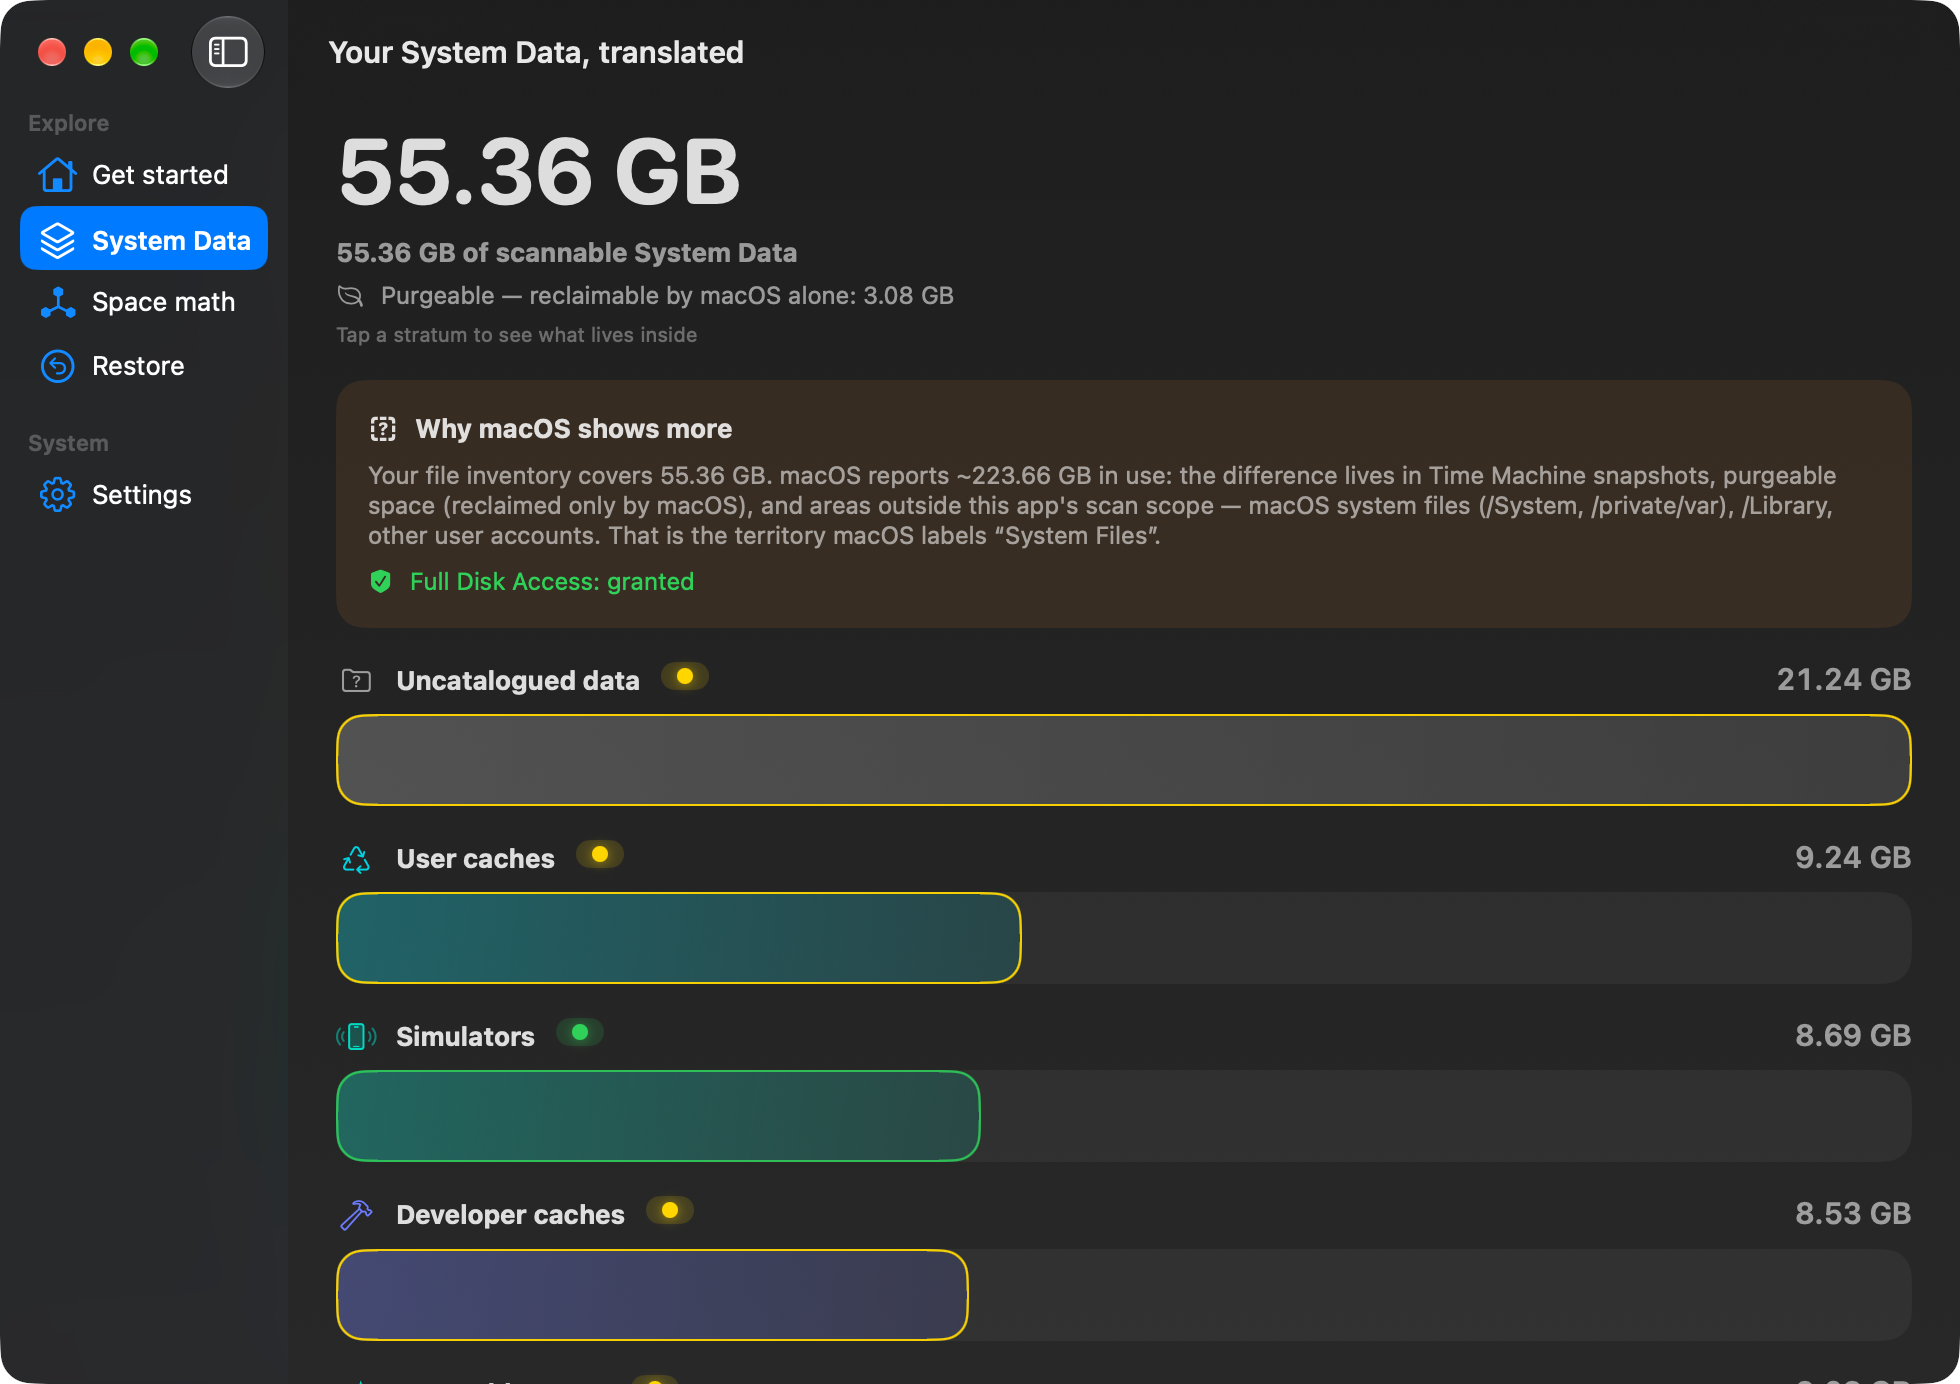
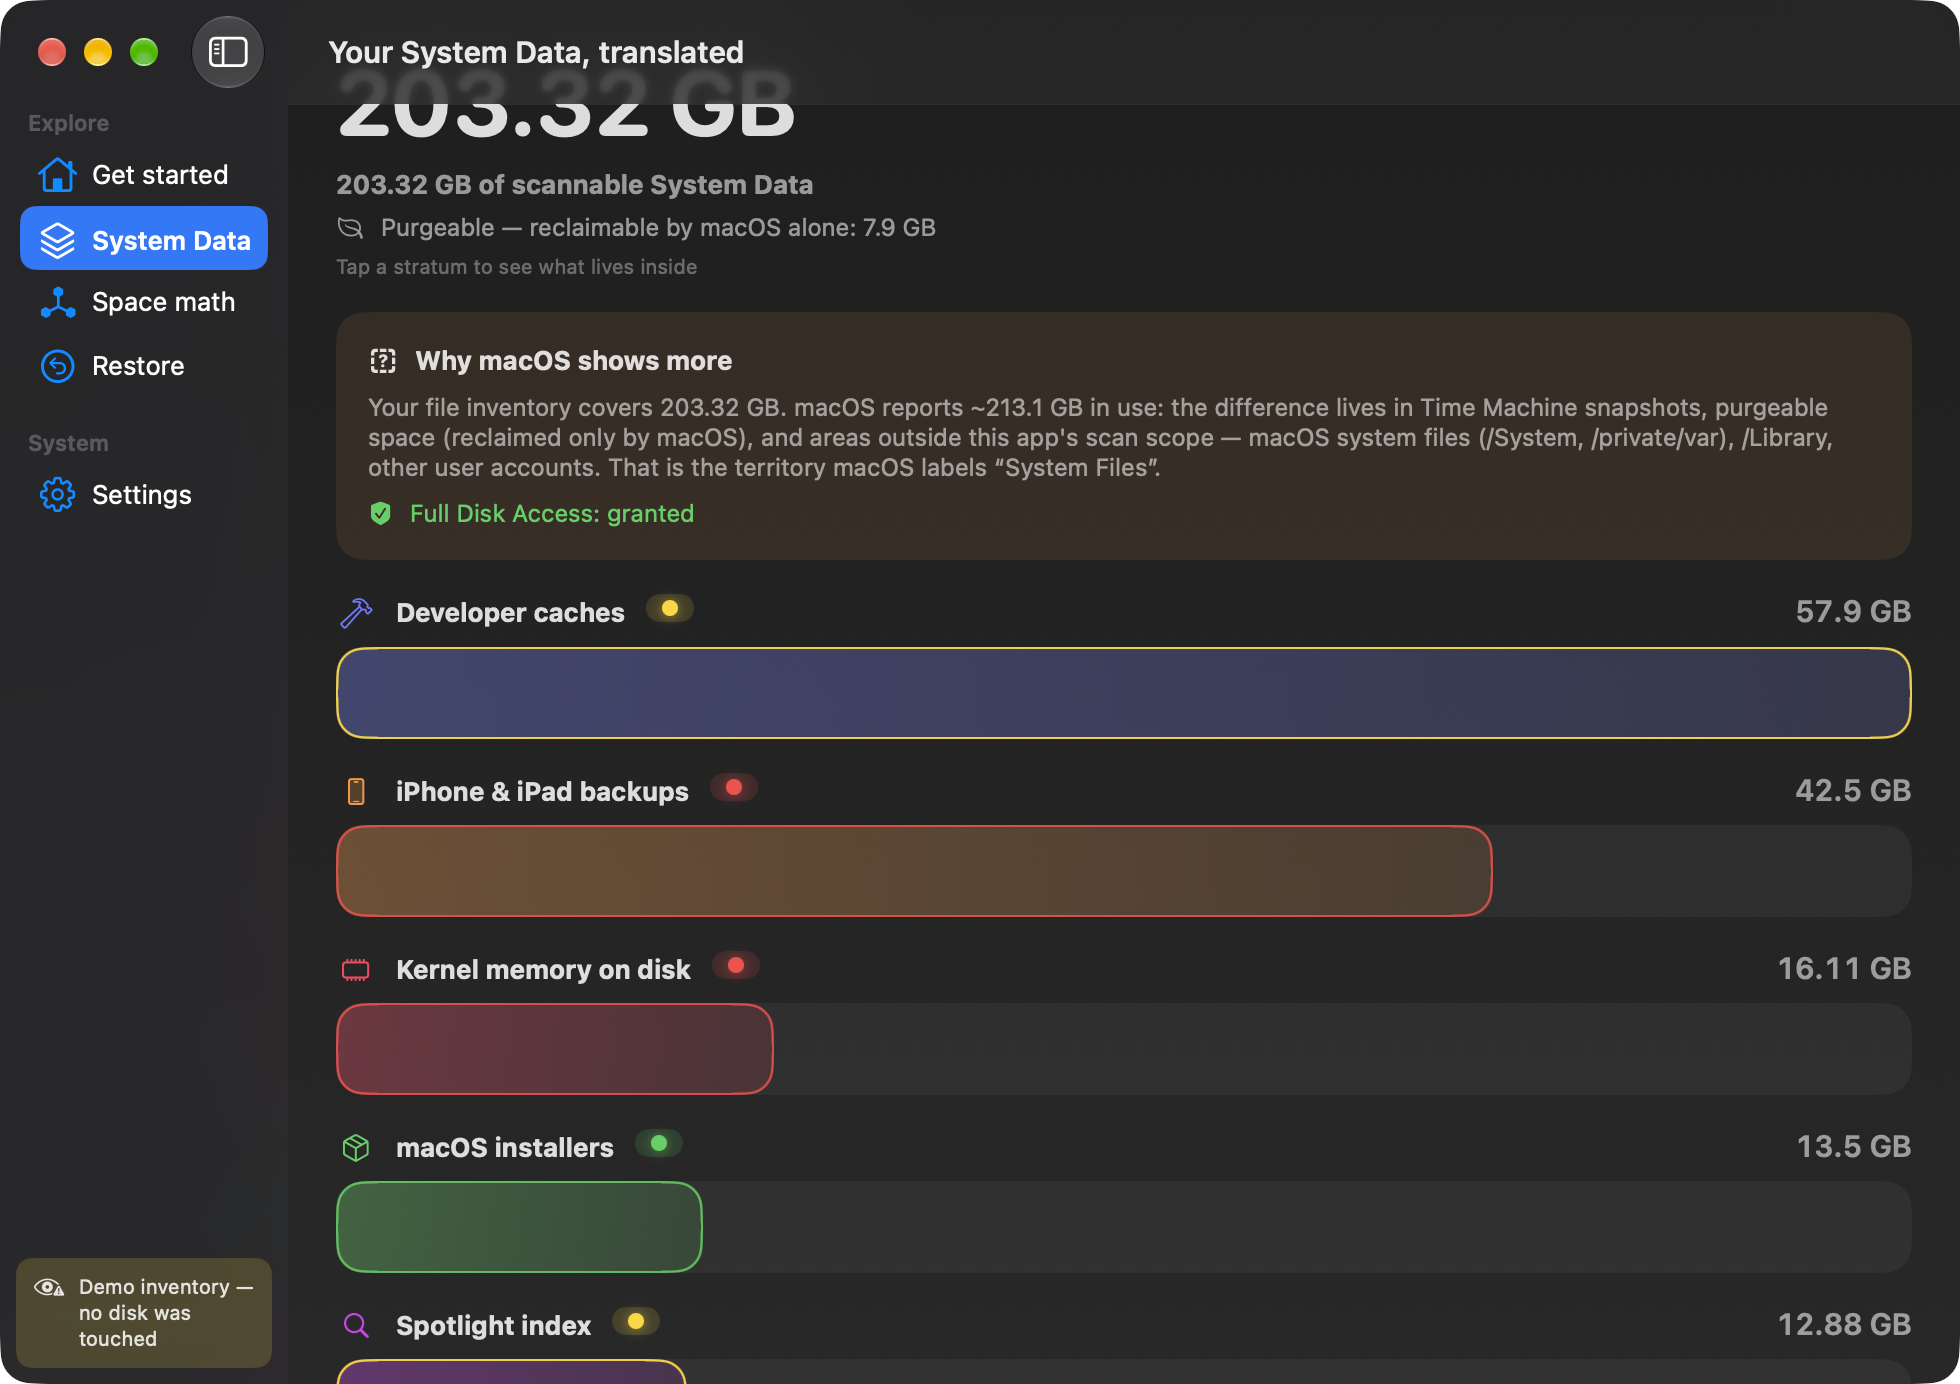
Screenshot demo puliti (niente dati utente), download reale via GitHub release

diff --git a/index.html b/index.html
@@ -121,7 +121,7 @@
     <a class="navlink" href="#ai">AI</a>
     <a class="navlink" href="#sicuro">Sicurezza</a>
     <a class="navlink" href="#faq">FAQ</a>
-    <a class="nav-cta" href="#prezzi">Scarica</a>
+    <a class="nav-cta" href="https://github.com/creazionecontenuti-oss/cleansystemdata/releases/latest/download/CleanSystemData-1.0.0.dmg">Scarica</a>
   </div>
 </nav>
 
@@ -134,7 +134,7 @@
        cestinare in tranquillità — e un'<b>AI che ti spiega ogni voce</b> nella tua lingua, con fonti, costi
        e tempi trasparenti.</p>
     <div class="ctas">
-      <a class="btn primary" href="#prezzi">Scarica ora</a>
+      <a class="btn primary" href="https://github.com/creazionecontenuti-oss/cleansystemdata/releases/latest/download/CleanSystemData-1.0.0.dmg">Scarica per Mac — gratis il setup</a>
       <a class="btn ghost" href="#ai">Vedi l'AI all'opera</a>
     </div>
     <div class="langs">🤖 250 analisi AI incluse con la licenza · Interfaccia 🇮🇹 🇬🇧 🇪🇸</div>
@@ -156,8 +156,8 @@
       <div class="step"><div><b>Cestina — e ripensa</b><span>Niente viene cancellato direttamente: tutto va nel Cestino con <b>Annulla</b> sempre disponibile, via manifest interno.</span></div></div>
     </div>
     <figure class="shot">
-      <img src="assets/scan-in-corso.png" alt="Scansione in corso con le barre che si depositano">
-      <figcaption>Durante la scansione gli strati si depositano uno a uno, in tempo reale.</figcaption>
+      <img src="assets/item-detail.png" alt="Dettaglio di una voce: semaforo rosso Do not touch, pulsante AI, footer trash-first">
+      <figcaption>Ogni voce ha il suo verdetto e il suo tasto AI. Il rosso <b>non si può cestinare</b> — e nulla viene mai cancellato direttamente.</figcaption>
     </figure>
   </div>
 </section>
@@ -251,9 +251,9 @@
       <div class="price">€ 19 <small>/ una volta · aggiornamenti inclusi</small></div>
       <div class="ctas">
         <a class="btn primary" href="#">Acquista (presto disponibile)</a>
-        <a class="btn ghost" href="#">Prova la demo</a>
+        <a class="btn ghost" href="https://github.com/creazionecontenuti-oss/cleansystemdata/releases/latest/download/CleanSystemData-1.0.0.dmg">Scarica e prova</a>
       </div>
-      <p style="margin-top:16px;font-size:13px;color:var(--muted)">Pagamento sicuro · Licenza via email · Rimborsi 14 giorni</p>
+      <p style="margin-top:16px;font-size:13px;color:var(--muted)">macOS 13+ · Apple Silicon · Prima apertura: tasto destro → Apri (notarizzazione in arrivo)</p>
     </div>
   </div>
 </section>
